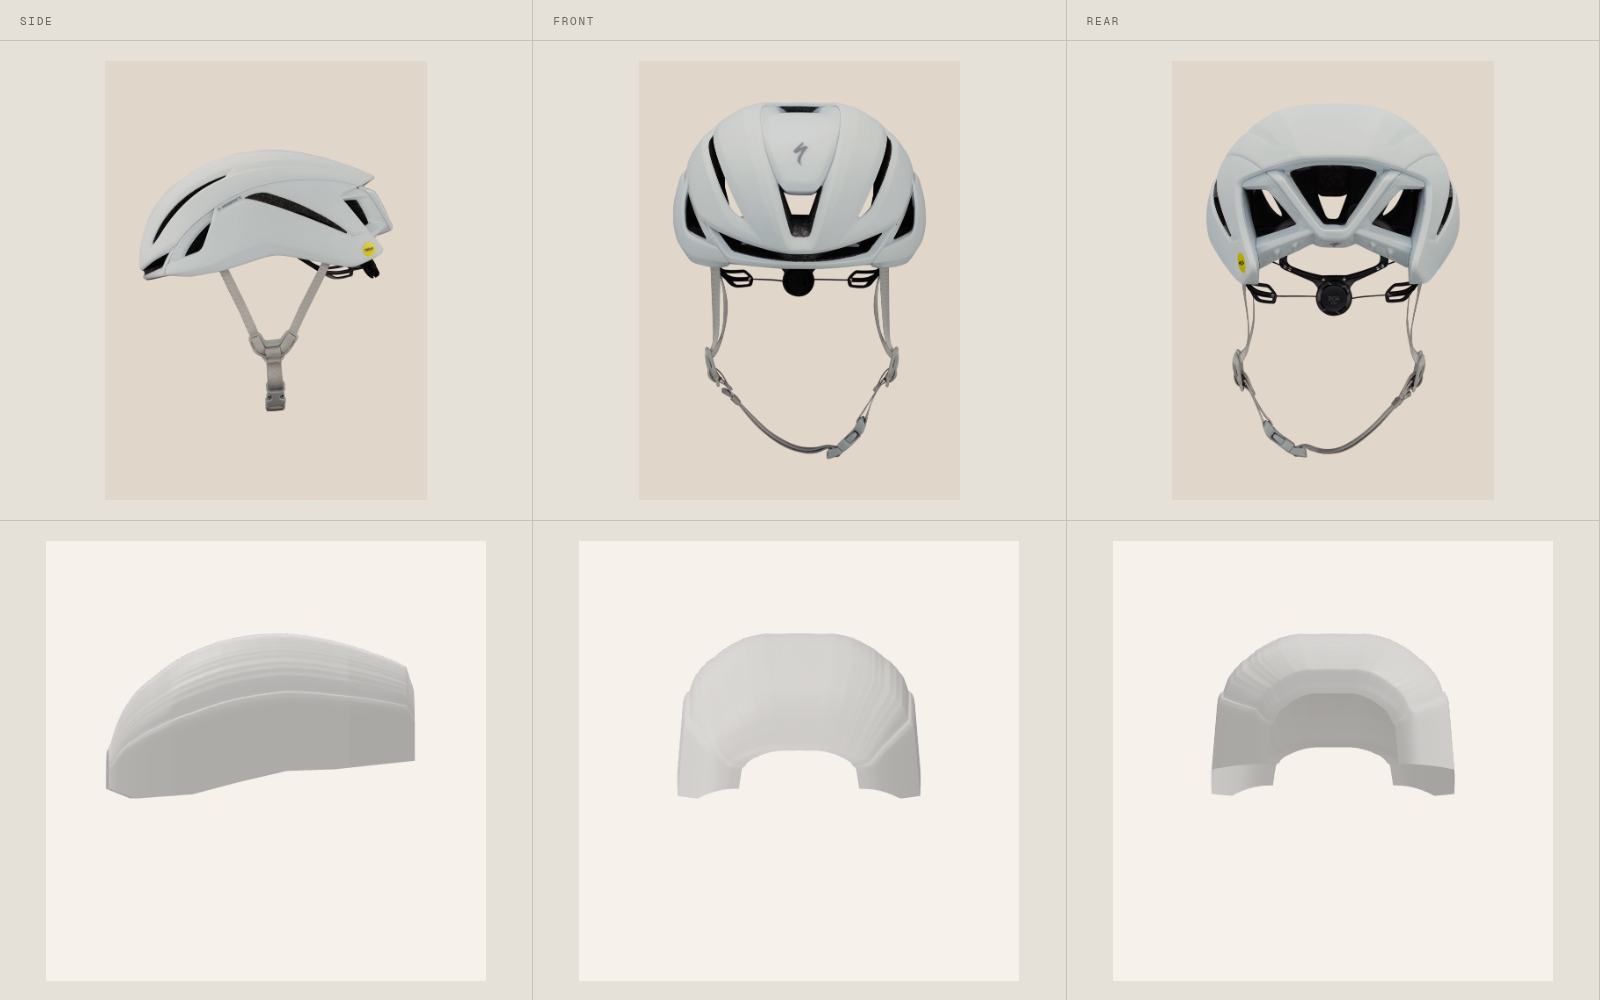
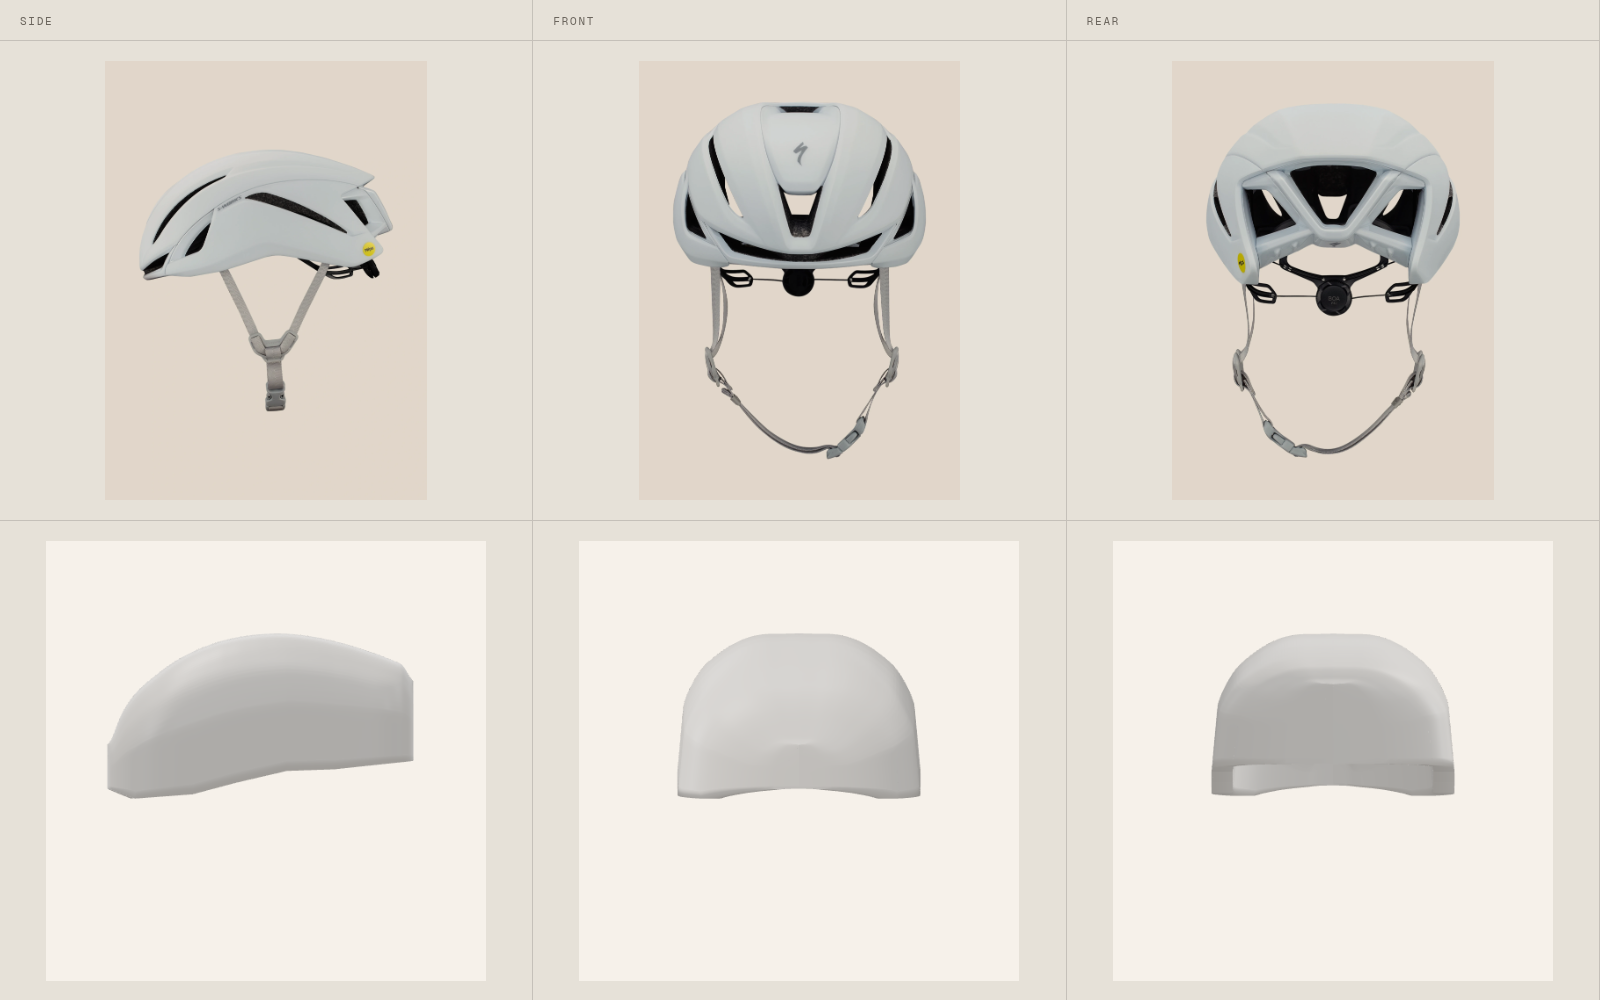
Helmet: close the front and add shell thickness
Closes the plan at the nose so the front no longer shows an open
semicircle, adds an 18 mm inner surface joined by a rim band, and
smooths the traced profiles to remove banding. Refreshes the mock-ups.

Claude-Session: https://claude.ai/code/session_01NLmMAFFsk38kWFHaEgHSMq

Changed region(s): [[0.75, 0.744, 0.9062, 0.806], [0.4375, 0.744, 0.5625, 0.806]]

diff --git a/docs/plans/site-redesign.md b/docs/plans/site-redesign.md
@@ -300,7 +300,10 @@ Restyle only. Positions come from the existing `bike` / `mannequin` sketches in 
     `helmet_geo.json`, loaded by `helmet.js`).
     - The side profile (crown line) and the front-view arch are extracted automatically from the side and front photos.
     - Every cross-section is the front arch, scaled to the local height from the side photo and to a rounded plan width
-      (half-width 105 mm). Vertical side walls; a clean bottom edge traced by hand (low brow, ear cutout, raised rear).
+      (half-width 105 mm). The plan **closes at the nose** (it wraps the brow; no open notch at the front) and is blunt at
+      the tail. Vertical side walls; a clean bottom edge traced by hand (low brow, ear cutout, raised rear).
+    - **Thickness:** an inner surface offset 18 mm (EPS liner thickness), joined to the outer by a rim band along the
+      bottom edge.
     - Length ≈ 264 mm, crown ≈ 38 mm above the skull.
     - **No vents, no black, no straps**: the silhouette carries the likeness. Pressing the photo vents in as recesses was
       tried and came out noisy.
